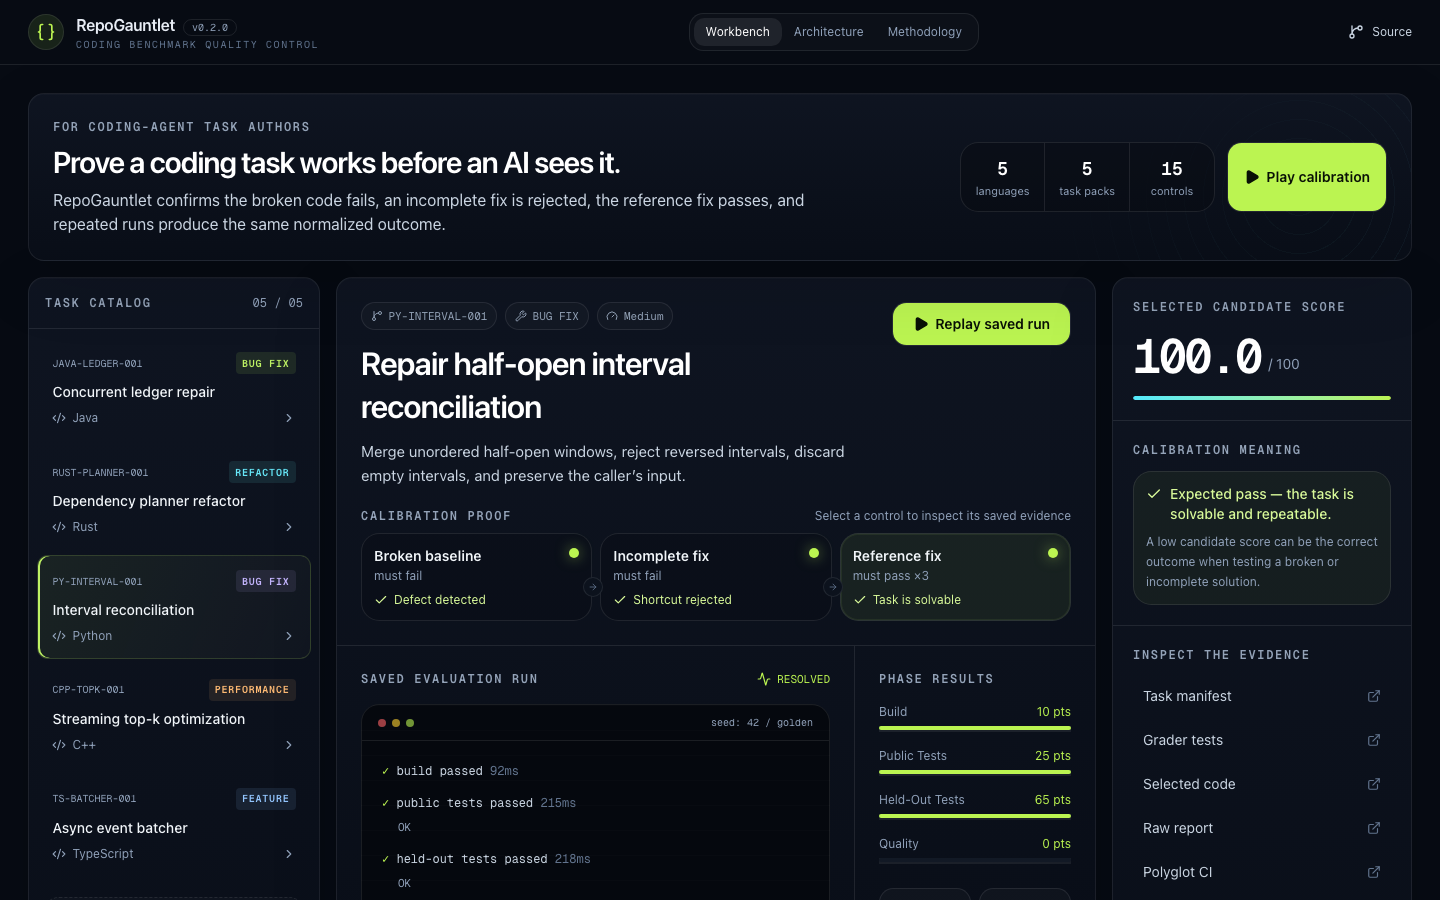
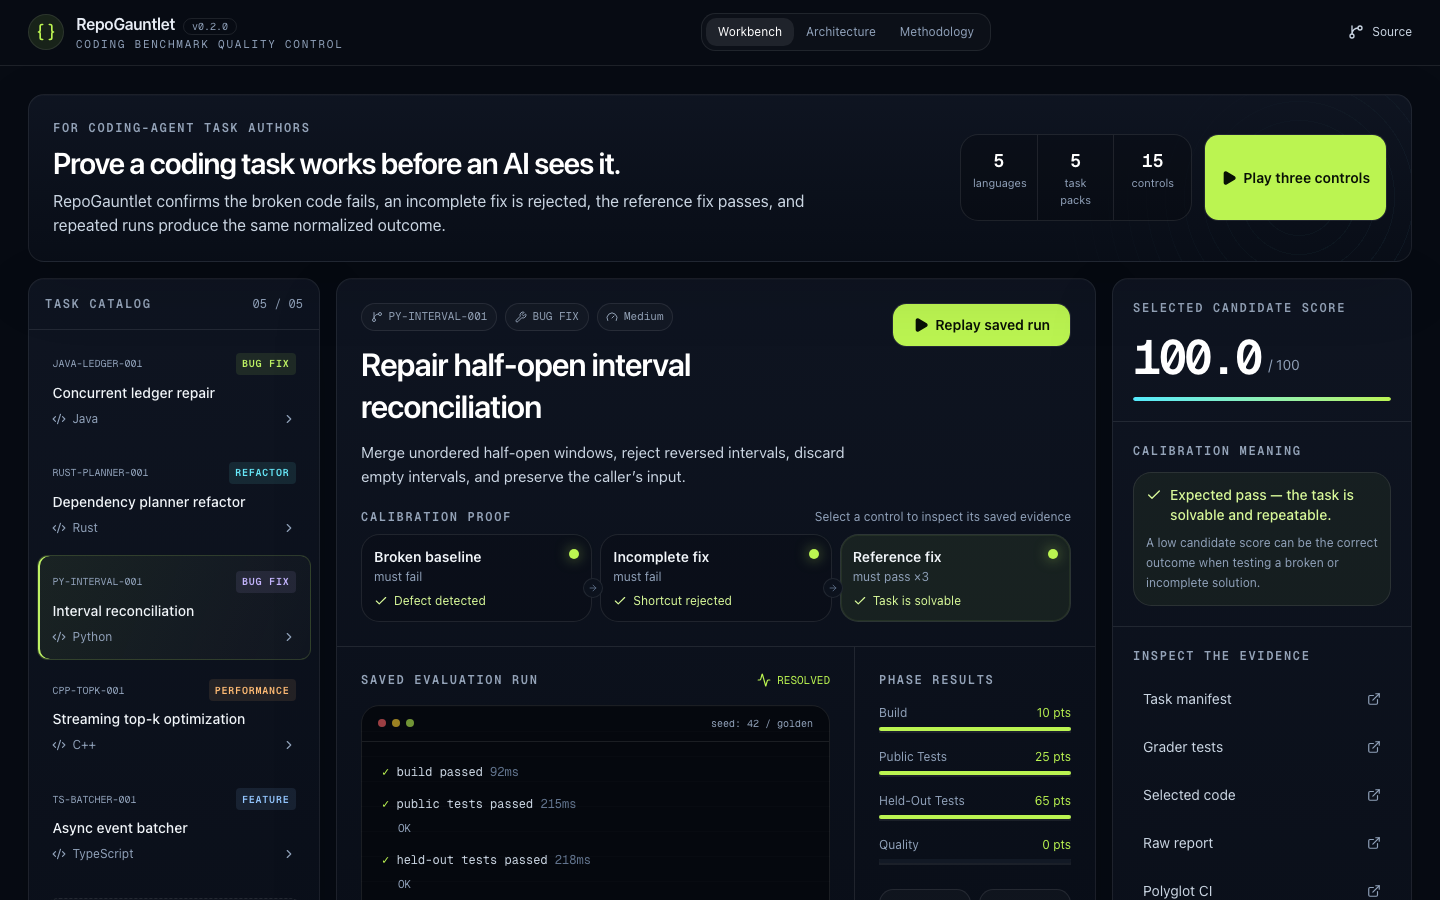
fix: preserve user control during calibration replay

diff --git a/components/forge-shell.tsx b/components/forge-shell.tsx
@@ -58,34 +58,67 @@ export function RepoShell() {
   const [running, setRunning] = useState(false);
   const [visible, setVisible] = useState(4);
   const timer = useRef<ReturnType<typeof setInterval> | null>(null);
+  const runGeneration = useRef(0);
+  const pendingResolve = useRef<(() => void) | null>(null);
   const task = useMemo(
     () => repoTasks.find((item) => item.id === selectedId) ?? repoTasks[2],
     [selectedId],
   );
   const report = reports[selectedId]?.[candidate];
 
+  const clearPlayback = useCallback(() => {
+    if (timer.current) clearInterval(timer.current);
+    timer.current = null;
+    pendingResolve.current?.();
+    pendingResolve.current = null;
+    setRunning(false);
+  }, []);
+
+  const cancelPlayback = useCallback(() => {
+    runGeneration.current += 1;
+    clearPlayback();
+  }, [clearPlayback]);
+
   const replay = useCallback(
-    async (taskId = selectedId, nextCandidate: Candidate = candidate) => {
+    async (
+      taskId = selectedId,
+      nextCandidate: Candidate = candidate,
+      sharedGeneration?: number,
+    ) => {
       const artifact = reports[taskId]?.[nextCandidate];
       if (!artifact) throw new Error(`No committed local report for ${taskId}`);
+      const playbackId = sharedGeneration ?? runGeneration.current + 1;
+      if (sharedGeneration === undefined) runGeneration.current = playbackId;
+      clearPlayback();
+      if (runGeneration.current !== playbackId) return { cancelled: true };
       setSelectedId(taskId);
       setCandidate(nextCandidate);
       setView('workbench');
       setRunning(true);
       setVisible(0);
-      if (timer.current) clearInterval(timer.current);
       await new Promise<void>((resolve) => {
+        pendingResolve.current = resolve;
         let phase = 0;
         timer.current = setInterval(() => {
+          if (runGeneration.current !== playbackId) {
+            if (timer.current) clearInterval(timer.current);
+            timer.current = null;
+            pendingResolve.current = null;
+            resolve();
+            return;
+          }
           phase += 1;
           setVisible(phase);
           if (phase >= artifact.phases.length) {
             if (timer.current) clearInterval(timer.current);
+            timer.current = null;
+            pendingResolve.current = null;
             setRunning(false);
             resolve();
           }
         }, 220);
       });
+      if (runGeneration.current !== playbackId) return { cancelled: true };
       return {
         task_id: artifact.task_id,
         candidate: artifact.candidate,
@@ -94,22 +127,28 @@ export function RepoShell() {
         canonical_digest: artifact.canonical_digest,
       };
     },
-    [candidate, selectedId],
+    [candidate, clearPlayback, selectedId],
   );
 
   const playCalibration = useCallback(async () => {
+    const playbackId = runGeneration.current + 1;
+    runGeneration.current = playbackId;
+    clearPlayback();
     for (const nextCandidate of [
       'baseline',
       'mutant',
       'golden',
     ] as Candidate[]) {
-      await replay(selectedId, nextCandidate);
+      if (runGeneration.current !== playbackId) return;
+      await replay(selectedId, nextCandidate, playbackId);
     }
-  }, [replay, selectedId]);
+  }, [clearPlayback, replay, selectedId]);
 
   useEffect(
     () => () => {
+      runGeneration.current += 1;
       if (timer.current) clearInterval(timer.current);
+      pendingResolve.current?.();
     },
     [],
   );
@@ -159,34 +198,48 @@ export function RepoShell() {
 
   return (
     <main className="min-h-screen overflow-x-hidden bg-background text-foreground selection:bg-primary/30">
-      <Header view={view} onView={setView} />
-      {view === 'workbench' ? (
-        <Workbench
-          task={task}
-          selectedId={selectedId}
-          candidate={candidate}
-          report={report}
-          running={running}
-          visible={visible}
-          onSelect={(id) => {
-            setSelectedId(id);
-            setCandidate('golden');
-            setVisible(4);
-            setRunning(false);
-          }}
-          onCandidate={(value) => {
-            setCandidate(value);
-            setVisible(4);
-            setRunning(false);
-          }}
-          onReplay={() => void replay()}
-          onPlayCalibration={() => void playCalibration()}
-        />
-      ) : view === 'architecture' ? (
-        <Architecture />
-      ) : (
-        <Methodology />
-      )}
+      <a
+        href="#main-content"
+        className="sr-only z-50 rounded-md bg-cyan-200 px-3 py-2 font-semibold text-slate-950 focus:not-sr-only focus:fixed focus:left-3 focus:top-3"
+      >
+        Skip to content
+      </a>
+      <Header
+        view={view}
+        onView={(nextView) => {
+          cancelPlayback();
+          setView(nextView);
+        }}
+      />
+      <div id="main-content" tabIndex={-1}>
+        {view === 'workbench' ? (
+          <Workbench
+            task={task}
+            selectedId={selectedId}
+            candidate={candidate}
+            report={report}
+            running={running}
+            visible={visible}
+            onSelect={(id) => {
+              cancelPlayback();
+              setSelectedId(id);
+              setCandidate('golden');
+              setVisible(4);
+            }}
+            onCandidate={(value) => {
+              cancelPlayback();
+              setCandidate(value);
+              setVisible(4);
+            }}
+            onReplay={() => void replay()}
+            onPlayCalibration={() => void playCalibration()}
+          />
+        ) : view === 'architecture' ? (
+          <Architecture />
+        ) : (
+          <Methodology />
+        )}
+      </div>
     </main>
   );
 }
@@ -217,7 +270,7 @@ function Header({
                 v0.2.0
               </span>
             </span>
-            <span className="block font-mono text-[10px] uppercase tracking-[.16em] text-slate-500">
+            <span className="block font-mono text-[11px] uppercase tracking-[.16em] text-slate-400">
               Coding benchmark quality control
             </span>
           </span>
@@ -322,7 +375,7 @@ function Workbench({
               ) : (
                 <Play className="size-4 fill-current" />
               )}
-              <span className="hidden sm:inline">Play calibration</span>
+              <span className="hidden sm:inline">Play three controls</span>
               <span className="sm:hidden">Play</span>
             </Button>
           </div>
@@ -415,9 +468,9 @@ function Workbench({
                     {task.difficulty}
                   </span>
                 </div>
-                <h1 className="max-w-2xl text-2xl font-semibold tracking-[-.035em] text-white sm:text-[2rem]">
+                <h2 className="max-w-2xl text-2xl font-semibold tracking-[-.035em] text-white sm:text-[2rem]">
                   {task.title}
-                </h1>
+                </h2>
                 <p className="mt-3 max-w-2xl text-[15px] leading-6 text-slate-300">
                   {task.issue}
                 </p>
@@ -453,11 +506,12 @@ function Workbench({
             <Unavailable task={task} />
           )}
         </div>
+        <MobileEvidence task={task} candidate={candidate} />
         <div className="grid gap-4 sm:grid-cols-3">
           <Signal
             icon={ShieldCheck}
-            label="Only solution files can change"
-            detail="Blocks path escapes, symlinks, and oversized files"
+            label="Candidate overlay accepts only solution files"
+            detail="Rejects path escapes, symlinks, and oversized overlay files before execution"
           />
           <Signal
             icon={TimerReset}
@@ -750,19 +804,6 @@ function ScorePanel({
       : candidate === 'mutant'
         ? 'Expected failure — the shortcut is rejected.'
         : 'Expected pass — the task is solvable and repeatable.';
-  const repository = 'https://github.com/shi1720/repo-gauntlet';
-  const implementation =
-    candidate === 'baseline'
-      ? `${task.repositoryPath}/source`
-      : `${task.repositoryPath}/candidates/${candidate}`;
-  const evidence = [
-    ['Task manifest', `${repository}/blob/main/${task.repositoryPath}/task.json`],
-    ['Grader tests', `${repository}/tree/main/${task.repositoryPath}/grader`],
-    ['Selected code', `${repository}/tree/main/${implementation}`],
-    ['Raw report', `${repository}/blob/main/reports/${task.id}/${candidate}.json`],
-    ['Polyglot CI', `${repository}/actions/workflows/ci.yml`],
-  ];
-
   return (
     <aside className="panel hidden overflow-hidden xl:block">
       <div className="border-b border-white/8 p-5">
@@ -813,20 +854,7 @@ function ScorePanel({
       </div>
       <div className="border-t border-white/8 p-5">
         <p className="eyebrow mb-3">Inspect the evidence</p>
-        <div className="space-y-1">
-          {evidence.map(([label, href]) => (
-            <a
-              key={label}
-              href={href}
-              target="_blank"
-              rel="noreferrer"
-              className="flex min-h-10 items-center justify-between rounded-lg px-2.5 text-sm text-slate-300 transition hover:bg-white/[.04] hover:text-white"
-            >
-              {label}
-              <ExternalLink className="size-3.5 text-slate-500" />
-            </a>
-          ))}
-        </div>
+        <EvidenceLinks task={task} candidate={candidate} />
       </div>
       <div className="mx-5 border-t border-white/8 py-5">
         <div className="flex gap-3">
@@ -838,6 +866,64 @@ function ScorePanel({
         </div>
       </div>
     </aside>
+  );
+}
+
+function MobileEvidence({
+  task,
+  candidate,
+}: {
+  task: RepoTask;
+  candidate: Candidate;
+}) {
+  return (
+    <details className="panel group xl:hidden">
+      <summary className="flex min-h-12 cursor-pointer list-none items-center justify-between px-5 py-3 text-sm font-semibold text-slate-100 marker:hidden">
+        Inspect source, tests, report, and CI
+        <ChevronRight className="size-4 text-slate-400 transition group-open:rotate-90" />
+      </summary>
+      <div className="border-t border-white/8 p-3">
+        <EvidenceLinks task={task} candidate={candidate} />
+      </div>
+    </details>
+  );
+}
+
+function EvidenceLinks({
+  task,
+  candidate,
+}: {
+  task: RepoTask;
+  candidate: Candidate;
+}) {
+  const repository = 'https://github.com/shi1720/repo-gauntlet';
+  const implementation =
+    candidate === 'baseline'
+      ? `${task.repositoryPath}/source`
+      : `${task.repositoryPath}/candidates/${candidate}`;
+  const evidence = [
+    ['Task manifest', `${repository}/blob/main/${task.repositoryPath}/task.json`],
+    ['Grader tests', `${repository}/tree/main/${task.repositoryPath}/grader`],
+    ['Selected code', `${repository}/tree/main/${implementation}`],
+    ['Raw report', `${repository}/blob/main/reports/${task.id}/${candidate}.json`],
+    ['Polyglot CI', `${repository}/actions/workflows/ci.yml`],
+  ];
+  return (
+    <div className="space-y-1">
+      {evidence.map(([label, href]) => (
+        <a
+          key={label}
+          href={href}
+          target="_blank"
+          rel="noreferrer"
+          aria-label={`${label} (opens in a new tab)`}
+          className="flex min-h-11 items-center justify-between rounded-lg px-2.5 text-sm text-slate-300 transition hover:bg-white/[.04] hover:text-white"
+        >
+          {label}
+          <ExternalLink className="size-3.5 text-slate-400" />
+        </a>
+      ))}
+    </div>
   );
 }
 
@@ -884,7 +970,7 @@ function Architecture() {
               <span className="grid size-10 place-items-center rounded-xl bg-white/[.045]">
                 <Icon className="size-5 text-lime-300" />
               </span>
-              <span className="font-mono text-[10px] text-slate-500">
+              <span className="font-mono text-[11px] text-slate-400">
                 0{index + 1}
               </span>
             </div>

diff --git a/CHANGELOG.md b/CHANGELOG.md
@@ -6,6 +6,8 @@
 - Added a guided three-control calibration story with explicit expected-failure interpretation and accessible native radio controls.
 - Published Java and Rust control reports alongside Python, C++, and TypeScript, with native CI drift verification for all fifteen artifacts.
 - Added direct evidence links for every selected task and candidate, improved mobile task navigation, contrast, focus states, and explanatory copy.
+- Added playback cancellation so guided controls never override later navigation, plus a tablet/mobile evidence disclosure and an explicit skip link.
+- Tightened overlay wording to distinguish pre-execution file validation from the documented trusted-host runtime boundary.
 
 ## 0.1.4 — 2026-09-05
 
